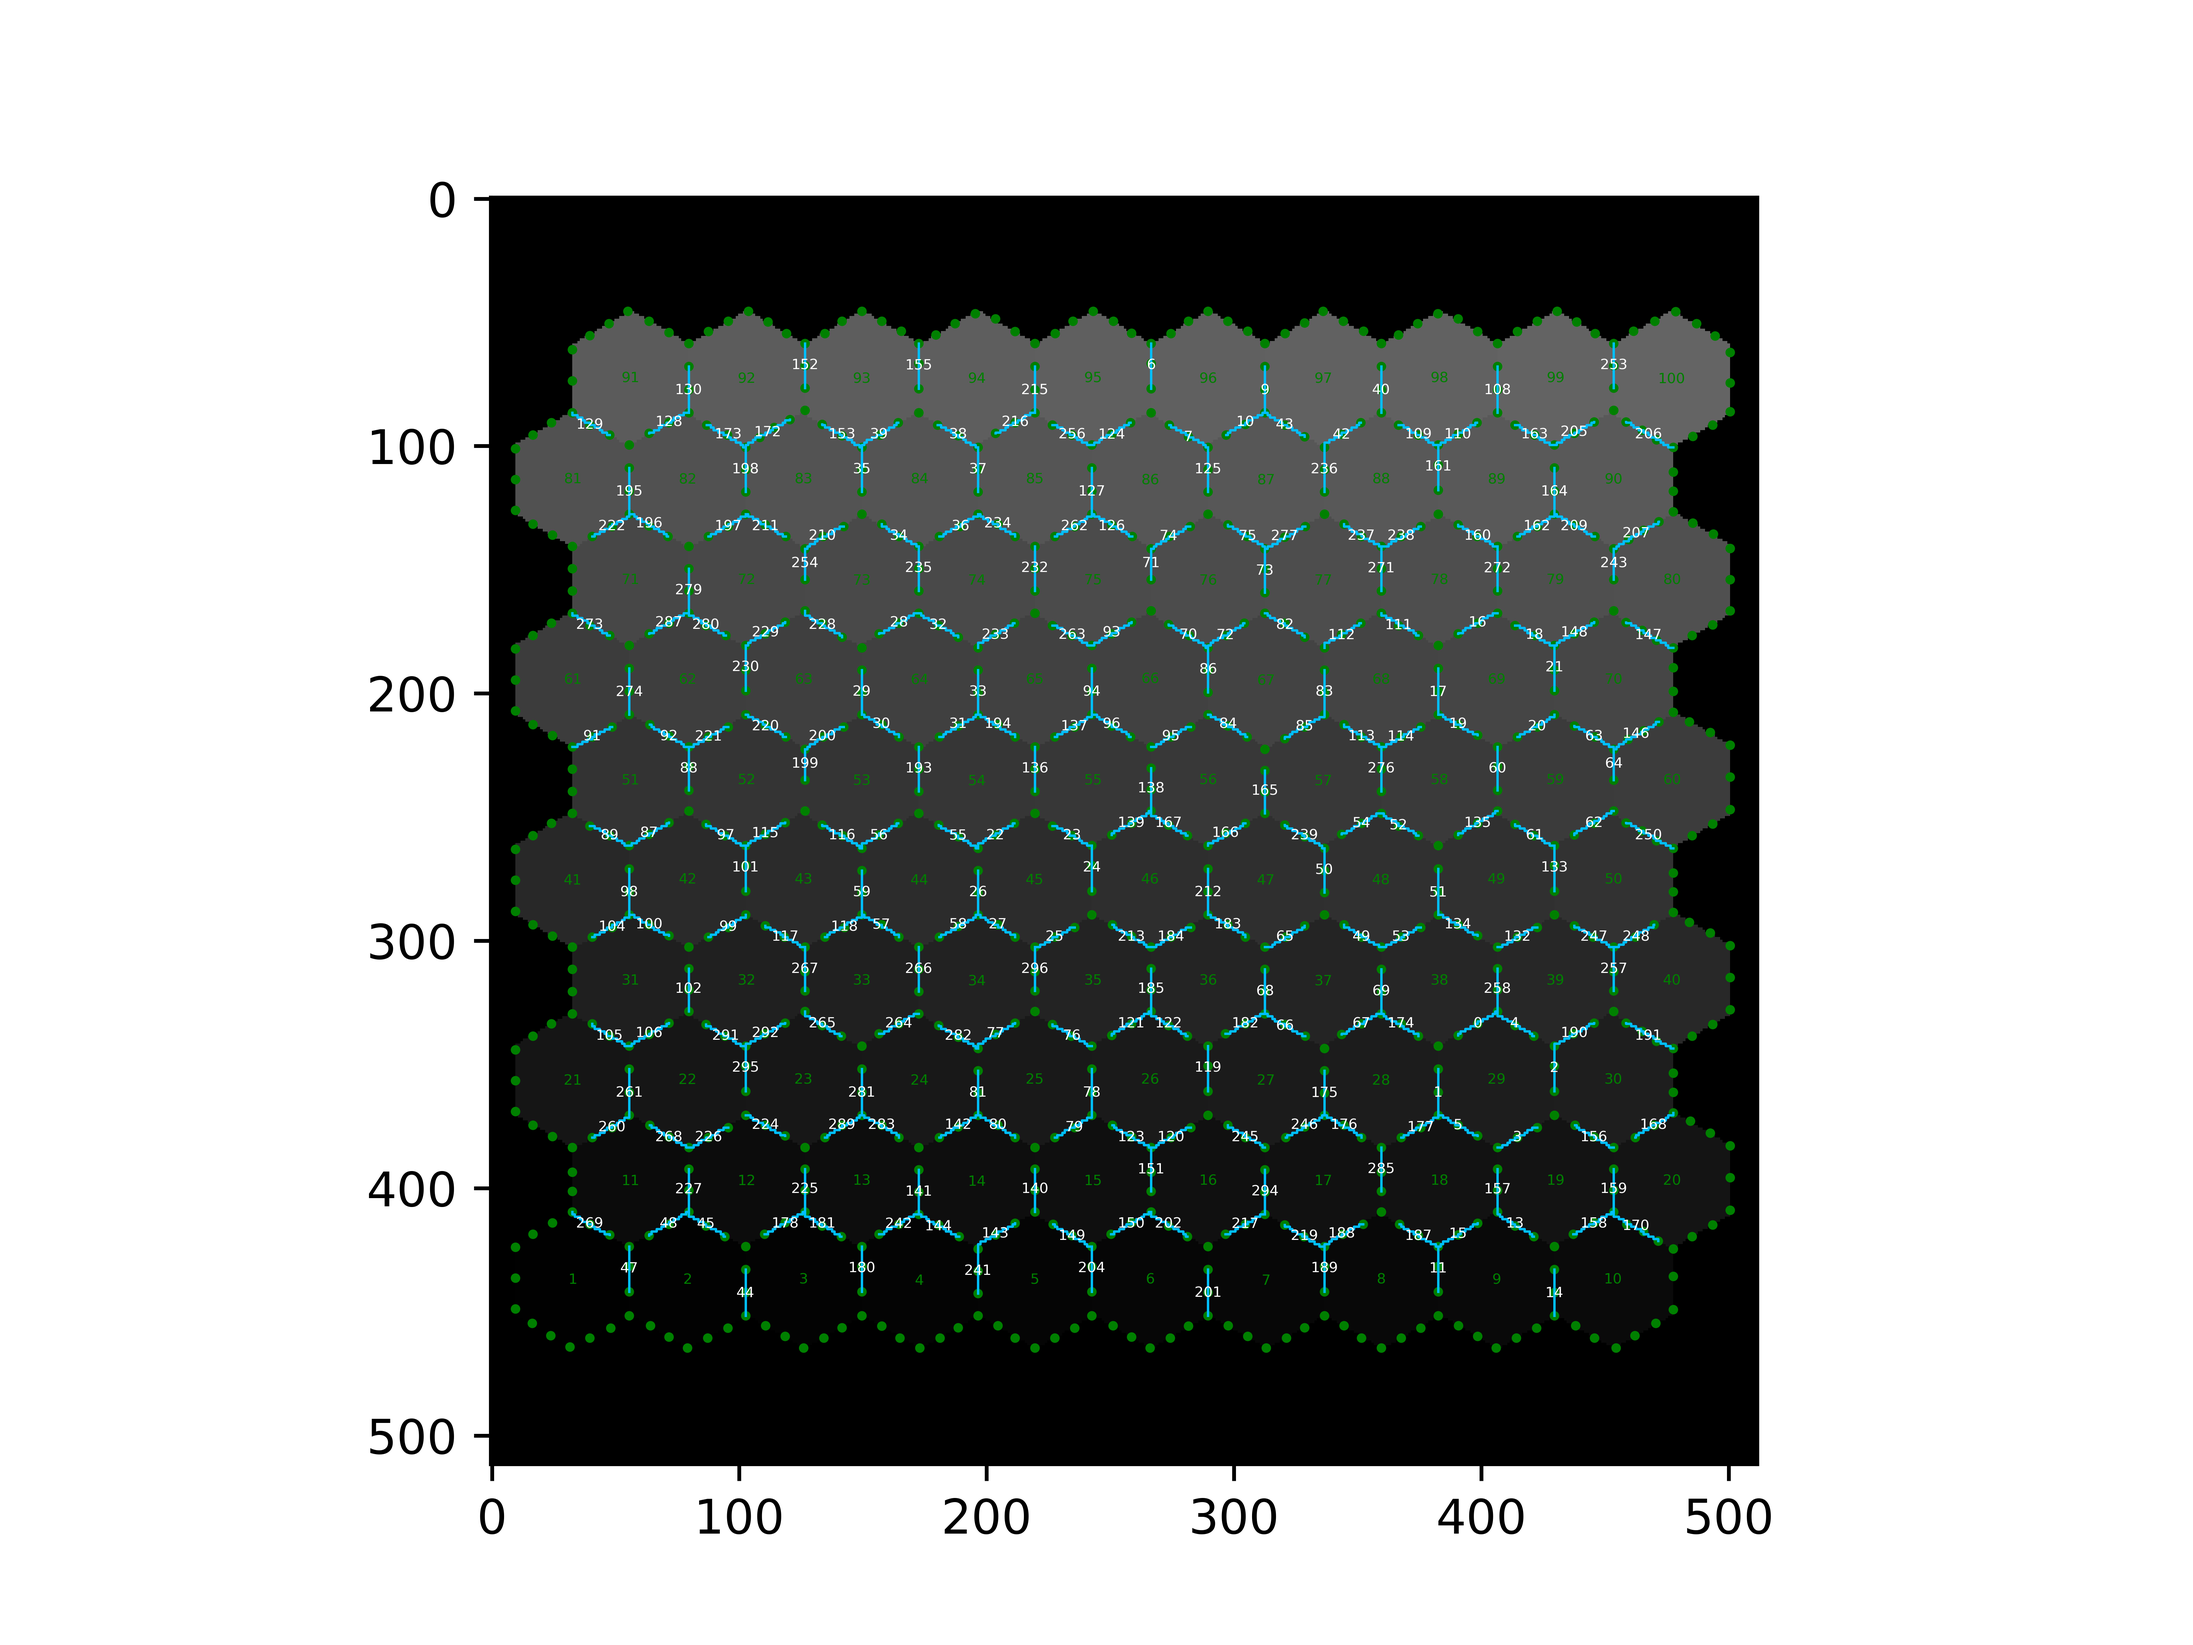
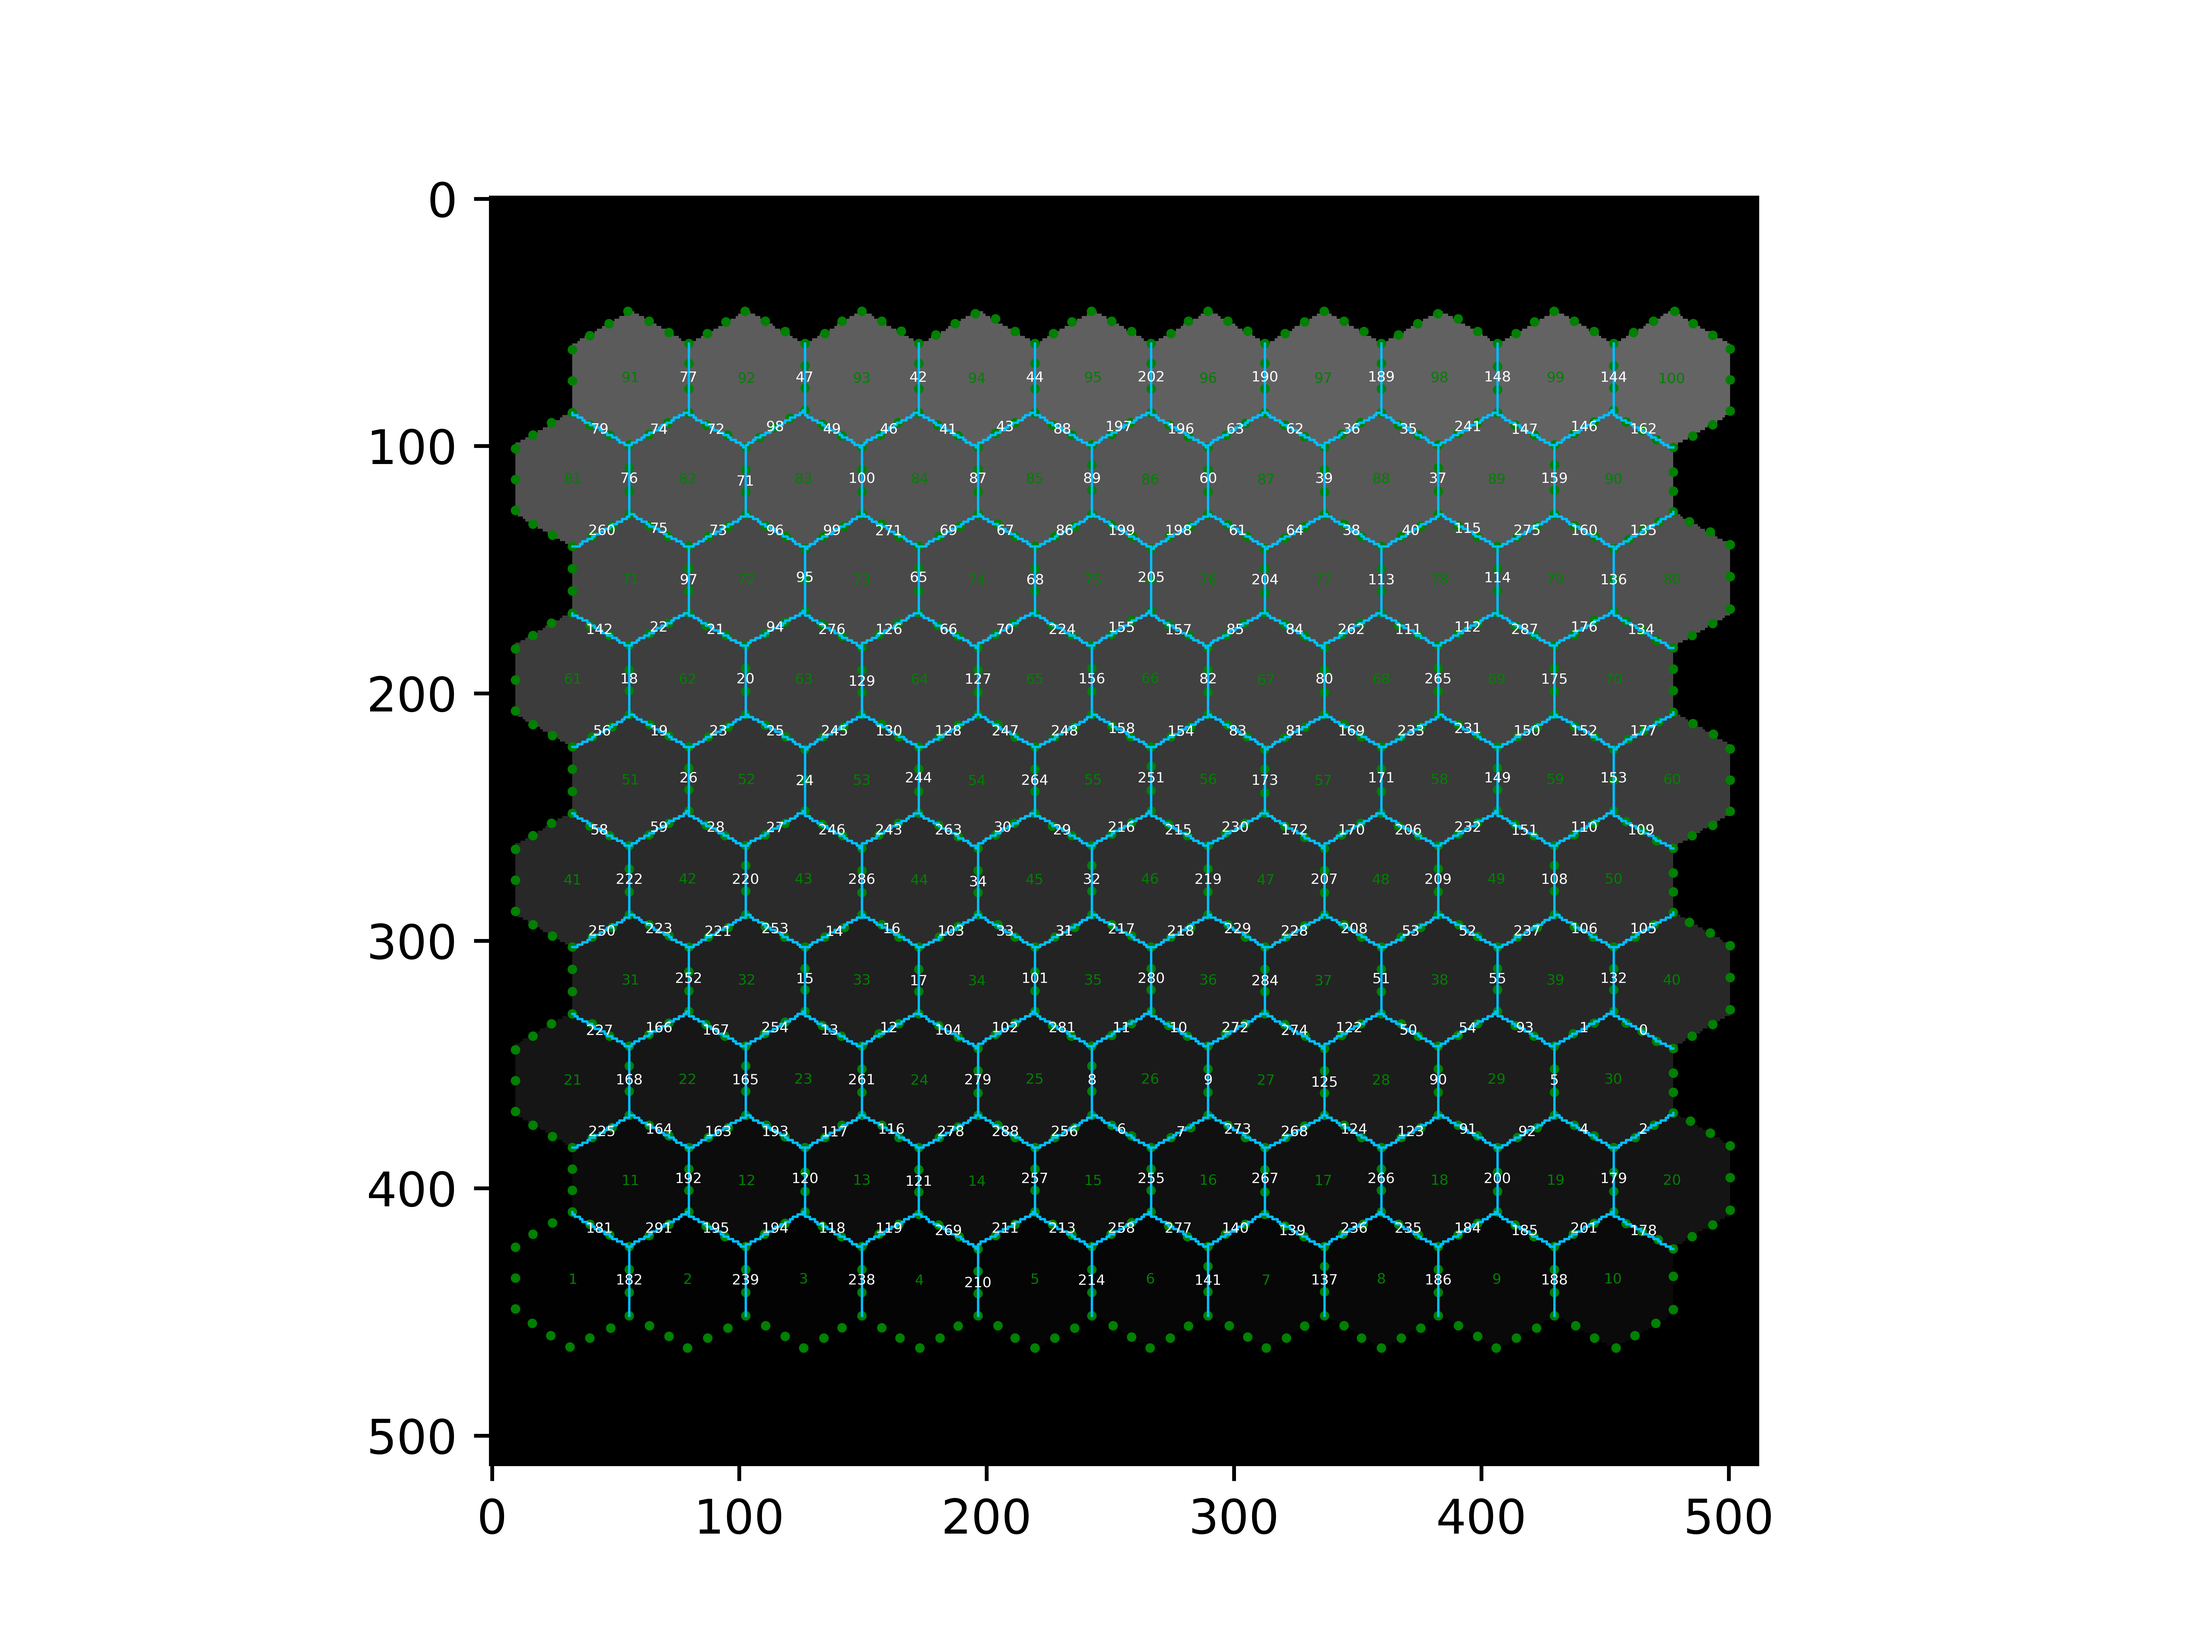
fixed intermediate point list from being truncated in split methods b copying list

diff --git a/pycellfit/edge.py b/pycellfit/edge.py
@@ -144,7 +144,7 @@ class Edge:
         Returns a list of ogr wkbLineString Geometries.
 
         """
-        line = self._intermediate_points
+        line = self._intermediate_points.copy()
         if not n_pieces:
             n_pieces = int(math.ceil(self.length / length))
         if not length:
